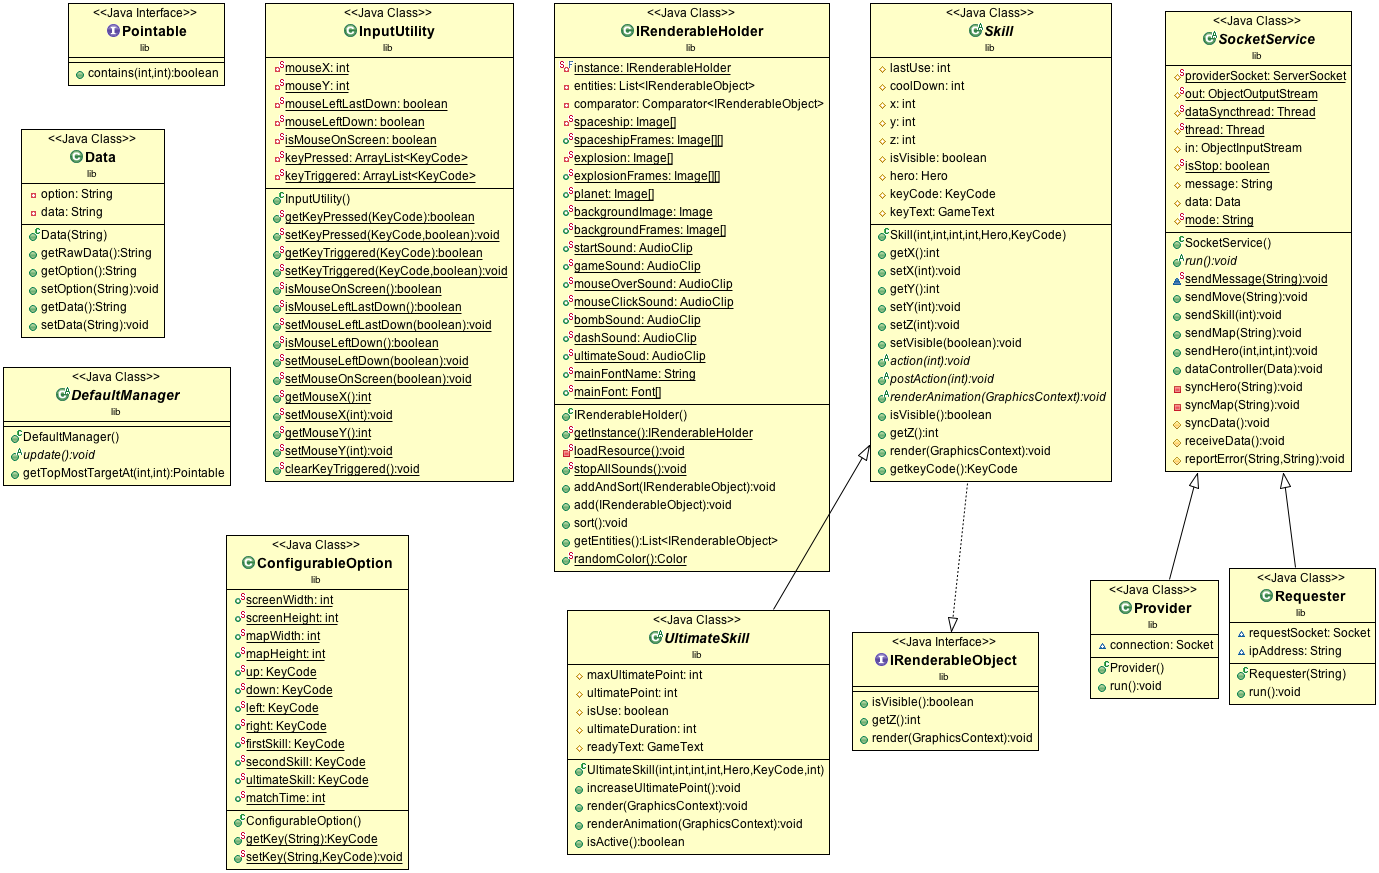
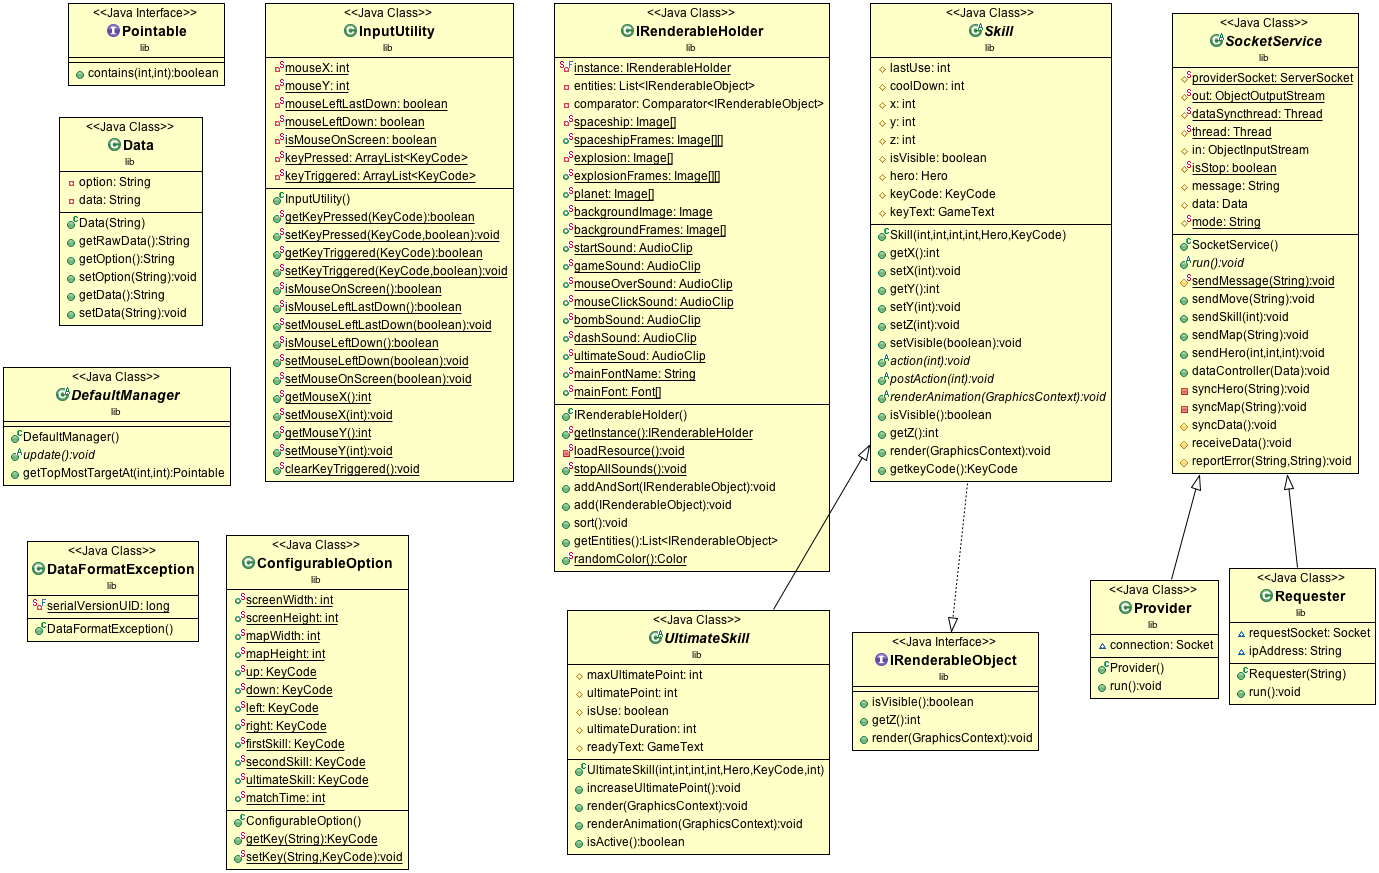
add new exception and add synchronized to sendMessage method

Changed region(s): [[0.8419, 0.0, 0.9978, 0.5876], [0.0, 0.1237, 0.1559, 0.4021], [0.0, 0.6186, 0.1559, 0.7423]]

diff --git a/src/logic/GameManager.java b/src/logic/GameManager.java
@@ -1,14 +1,10 @@
 package logic;
 
-import javax.security.auth.login.Configuration;
-
-import application.Main;
 import javafx.scene.input.KeyCode;
 import javafx.scene.paint.Color;
 import lib.ConfigurableOption;
 import lib.DefaultManager;
 import lib.IRenderableHolder;
-import lib.IRenderableObject;
 import lib.InputUtility;
 import lib.Provider;
 import lib.Requester;
@@ -122,6 +118,9 @@ public class GameManager extends DefaultManager {
 			}
 			if(IRenderableHolder.getInstance().getEntities().contains(waitingBG)) {
 				IRenderableHolder.getInstance().getEntities().remove(waitingBG);
+			}
+			if(IRenderableHolder.getInstance().getEntities().contains(endingSubText)) {
+				IRenderableHolder.getInstance().getEntities().remove(endingSubText);
 			}
 			scoreBar.setStart(true);
 		}

diff --git a/src/lib/SocketService.java b/src/lib/SocketService.java
@@ -36,7 +36,7 @@ public abstract class SocketService {
 		}
 	}
 	
-	static void sendMessage(String msg) {
+	protected static synchronized void sendMessage(String msg) {
 		try {
 			out.writeObject(msg);
 			out.flush();
@@ -164,6 +164,10 @@ public abstract class SocketService {
             	data = new Data(message);
                 dataController(data);
                 Thread.sleep(1000/60);
+            }
+            catch (DataFormatException e)  {
+            	System.err.println(mode);
+            	System.err.println("WRONG FORMAT DATA");
             }
             catch (InterruptedException e) {
             	break;

diff --git a/src/lib/IRenderableHolder.java b/src/lib/IRenderableHolder.java
@@ -95,10 +95,10 @@ public class IRenderableHolder {
 		gameSound.setCycleCount((int) Double.POSITIVE_INFINITY);
 		
 		mouseOverSound = new AudioClip(ClassLoader.getSystemResource("sfx/mouseover_sound.wav").toString());
-		mouseOverSound.setVolume(0.5);
+		mouseOverSound.setVolume(0.2);
 		
 		mouseClickSound = new AudioClip(ClassLoader.getSystemResource("sfx/mouseclick_sound.wav").toString());
-		mouseClickSound.setVolume(1);
+		mouseClickSound.setVolume(0.2);
 		
 		bombSound = new AudioClip(ClassLoader.getSystemResource("sfx/bomb_sound.wav").toString());
 		bombSound.setVolume(0.5);

diff --git a/src/ui/GameScreen.java b/src/ui/GameScreen.java
@@ -2,7 +2,6 @@ package ui;
 
 import java.util.Map;
 
-import application.Main;
 import javafx.scene.canvas.Canvas;
 import javafx.scene.canvas.GraphicsContext;
 import javafx.scene.input.KeyEvent;
@@ -15,8 +14,6 @@ import lib.ConfigurableOption;
 import lib.IRenderableHolder;
 import lib.IRenderableObject;
 import lib.InputUtility;
-import logic.GameManager;
-import logic.StartManager;
 
 public class GameScreen extends StackPane {
 	

diff --git a/src/lib/Data.java b/src/lib/Data.java
@@ -4,8 +4,13 @@ public class Data {
 	private String option;
 	private String data;
 	
-	public Data(String allData) {
+	public Data(String allData) throws DataFormatException {
 		String[] rawData = allData.split(" ");
+		
+		if(rawData.length > 2 || rawData.length == 0) {
+			throw new DataFormatException();
+		}
+		
 		this.option = rawData[0];
 		this.data = rawData[1];
 	}

diff --git a/src/model/GameText.java b/src/model/GameText.java
@@ -5,7 +5,6 @@ import java.util.Random;
 import javafx.geometry.VPos;
 import javafx.scene.canvas.GraphicsContext;
 import javafx.scene.paint.Color;
-import javafx.scene.text.Font;
 import javafx.scene.text.TextAlignment;
 import lib.IRenderableHolder;
 import lib.IRenderableObject;

diff --git a/src/lib/UltimateSkill.java b/src/lib/UltimateSkill.java
@@ -5,7 +5,6 @@ import javafx.scene.canvas.GraphicsContext;
 import javafx.scene.input.KeyCode;
 import javafx.scene.paint.Color;
 import javafx.scene.shape.ArcType;
-import javafx.scene.text.Font;
 import javafx.scene.text.TextAlignment;
 import model.GameText;
 import model.Hero;

diff --git a/src/application/Main.java b/src/application/Main.java
@@ -6,7 +6,6 @@ import javafx.event.EventHandler;
 import javafx.stage.Stage;
 import javafx.stage.WindowEvent;
 import lib.DefaultManager;
-import logic.GameManager;
 import logic.StartManager;
 import javafx.scene.Scene;
 import ui.GameScreen;

diff --git a/src/logic/StartManager.java b/src/logic/StartManager.java
@@ -6,7 +6,6 @@ import lib.DefaultManager;
 import lib.IRenderableHolder;
 import lib.InputUtility;
 import lib.Pointable;
-import lib.SocketService;
 import model.Background;
 import model.GameButton;
 import model.GameText;

diff --git a/src/model/DashSkill.java b/src/model/DashSkill.java
@@ -4,7 +4,6 @@ import javafx.scene.canvas.GraphicsContext;
 import javafx.scene.input.KeyCode;
 import lib.IRenderableHolder;
 import lib.Skill;
-import logic.GameManager;
 
 public class DashSkill extends Skill {
 

diff --git a/src/ui/ExitScreen.java b/src/ui/ExitScreen.java
@@ -2,7 +2,6 @@ package ui;
 
 import java.util.Optional;
 
-import application.Main;
 import javafx.application.Platform;
 import javafx.scene.control.Alert;
 import javafx.scene.control.ButtonType;

diff --git a/src/lib/DataFormatException.java b/src/lib/DataFormatException.java
@@ -1,0 +1,10 @@
+package lib;
+
+public class DataFormatException extends Exception {
+
+	/**
+	 * 
+	 */
+	private static final long serialVersionUID = 1L;
+
+}
